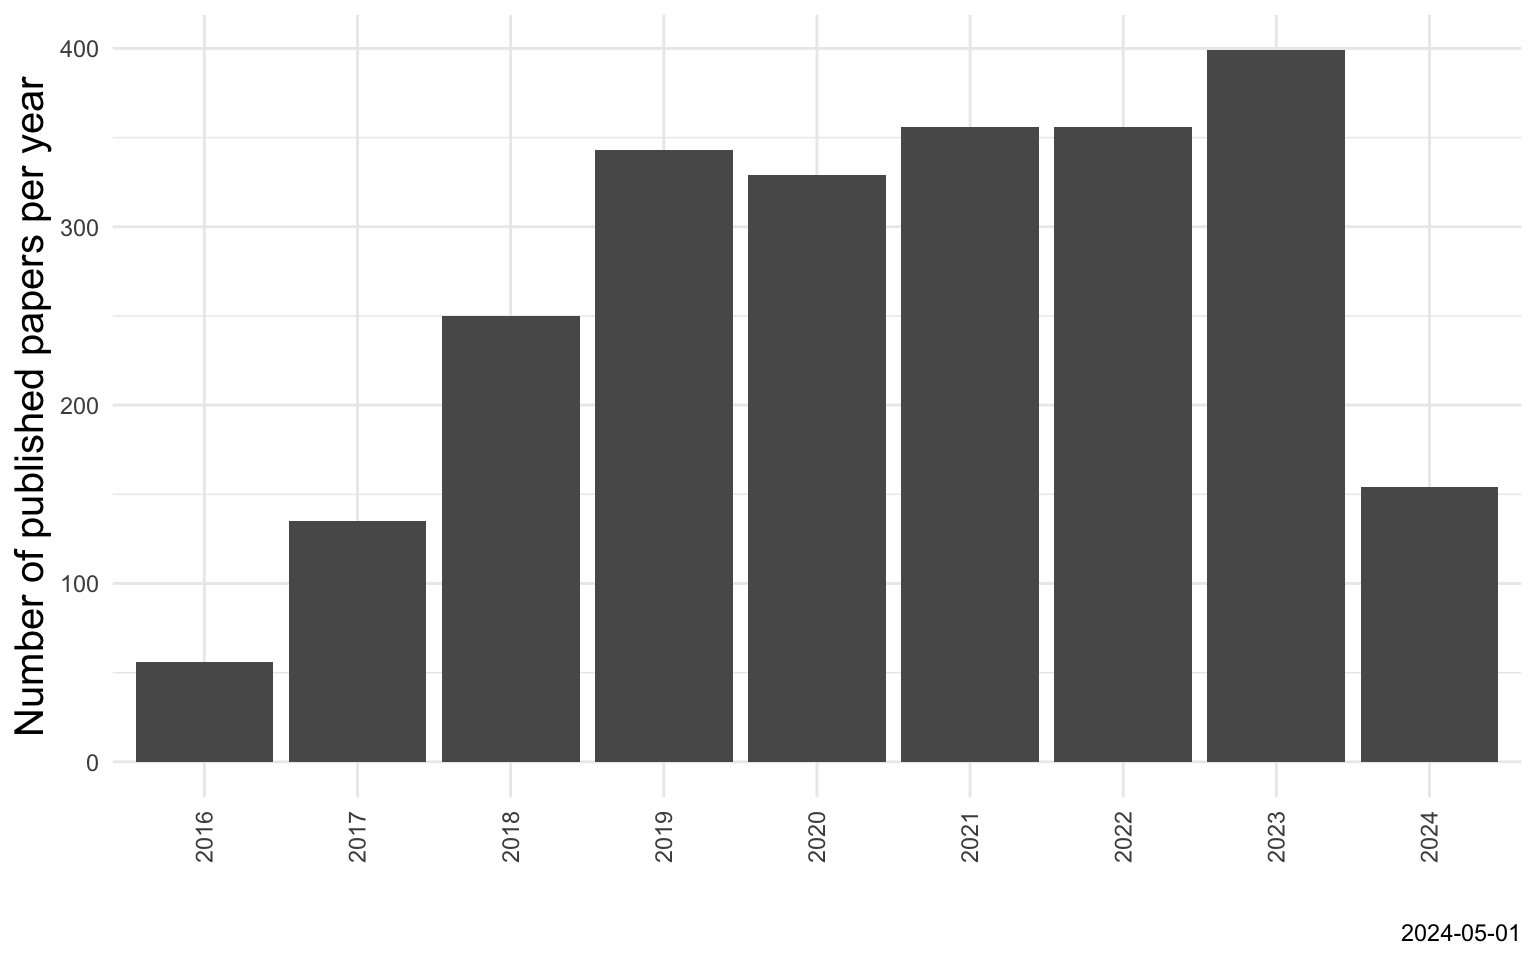
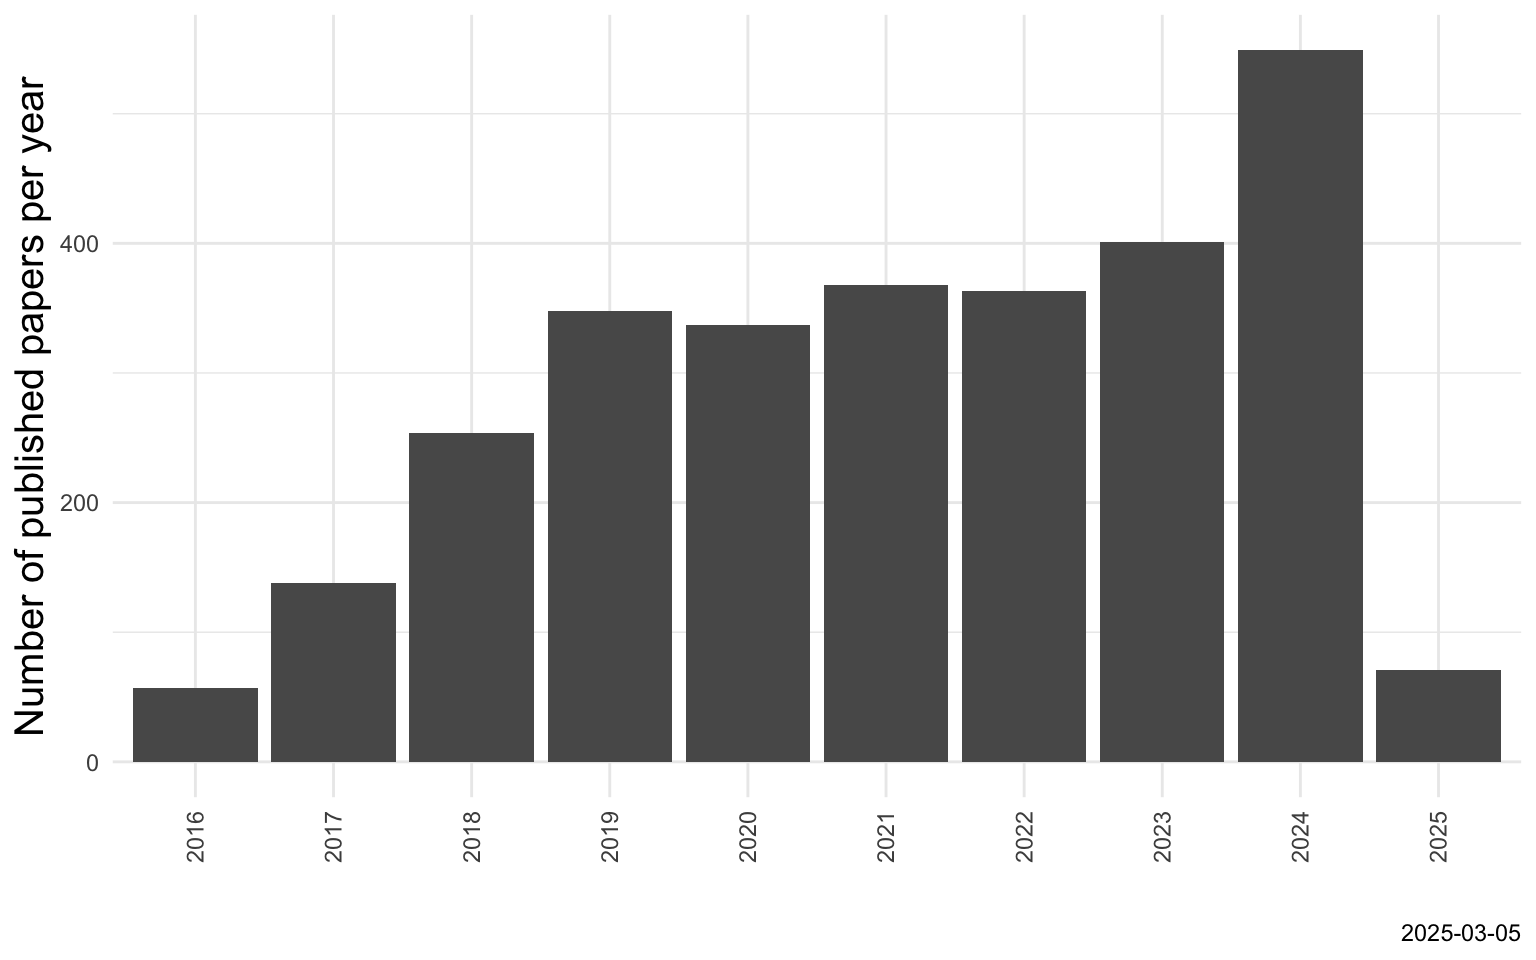
Update most cited papers, add JOSS paper, and update papers per year

diff --git a/joss-poster.tex b/joss-poster.tex
@@ -5,7 +5,7 @@
 \usepackage{ETbb}
 \usepackage[fontsize=28pt]{fontsize}
 % \usepackage{microtype}  % conflicts with hyperref and tikzposter, see https://tex.stackexchange.com/questions/481636/incompatibility-between-tikzposter-class-microtype-and-hyperref-package
-\usepackage{hyperref}
+\usepackage[hidelinks]{hyperref}
 \usepackage{qrcode}
 
 % \title{The Journal of Open Source Software}
@@ -46,25 +46,26 @@
   software itself
   \href{https://joss.readthedocs.io/en/latest/review_checklist.html}{meets
     some modern standards}, including having documentation, tests
-  (preferably automated), and community guidelines.  This way, JOSS
-  aims to give software creators a citable artefact
-  through which their research contribution can be recognised,
-  and to encourage them to use good software practice.}
+  (preferably automated), and community guidelines. This way, JOSS
+  aims to give software creators a citable artifact
+  through which their research contribution can be recognized,
+  and to encourage them to use good software practice.\\\newline
+  Latest paper: \footnotesize Diehl, Patrick, et al.\ "The Journal of Open Source Software (JOSS): Bringing Open-Source Software Practices to the Scholarly Publishing Community for Authors, Reviewers, Editors, and Publishers." Journal of Librarianship and Scholarly Communication 12.2 (2025). }
 
 \block{Publication statistics}{
   \begin{center}
-    \includegraphics[width=0.43\textwidth]{joss-papers-per-year.png}
+    \includegraphics[width=0.35\textwidth]{joss-papers-per-year.png}
   \end{center}
   \begin{center}
     \emph{Most-cited articles}:
   \begin{tabular}{p{0.62\linewidth}@{\quad}cc}
     \textbf{Title} & \textbf{Date} & \textbf{Citations} \\
-    \href{https://dx.doi.org/10.21105/joss.01686}{Welcome to the Tidyverse} & 2019-11-21 & 9\,431 \\
+    \href{https://dx.doi.org/10.21105/joss.01686}{Welcome to the Tidyverse} & 2019-11-21 & 14\,147 \\
     \href{https://dx.doi.org/10.21105/joss.00861}{UMAP: Uniform Manifold Approximation and Projection}
-    & 2018-09-02 & 4\,858 \\
-    \href{https://dx.doi.org/10.21105/joss.03021}{seaborn: statistical data visualization} & 2021-04-06 & 2\,652 \\
-    \href{https://dx.doi.org/10.21105/joss.03139}{performance: An R Package for Assessment, Comparison and Testing of Statistical Models} & 2021-04-21 & 1\,574 \\
-    \href{https://dx.doi.org/10.21105/joss.00024}{corner.py: Scatterplot matrices in Python} & 2016-06-08 & 1\,313 \\
+    & 2018-09-02 & 6\,701 \\
+    \href{https://dx.doi.org/10.21105/joss.03021}{seaborn: statistical data visualization} & 2021-04-06 & 4\,414 \\
+    \href{https://dx.doi.org/10.21105/joss.03139}{performance: An R Package for Assessment, Comparison and Testing of Statistical Models} & 2021-04-21 & 2\,743 \\
+    \href{https://doi.org/10.21105/joss.00772}{ggeffects: Tidy Data Frames of Marginal Effects from Regression Models} & 2018-06-29 & 1\,762 \\
   \end{tabular}
   \end{center}
 }
@@ -111,7 +112,8 @@ than providing a few monolithic reviews, several weeks apart.}
 %   \end{center}}
 %   \subcolumn{0.55}
   \block{About this poster}{
-Presented by Patrick Diehl and Daniel S. Katz at the \emph{2nd Annual Conference of the US Research Software Engineering Association} in Albuquerque, NM, 15--17 Oct 2024. Publication workflow diagram by Kyle Niemeyer (10.5281/zenodo.4538853). \\
+Presented by Patrick Diehl and Daniel S. Katz at the \emph{3nd Annual Conference of the US Research Software Engineering Association} in Philadelphia, PA, 6--8 Oct 2025. Publication workflow diagram by Kyle Niemeyer (10.5281/zenodo.4538853). \\
+%LA-UR-24-28030\\
 
 \begin{wrapfigure}[5]{r}{10cm}\vskip-1em\includegraphics[width=\linewidth]{by.png}\end{wrapfigure}
 Licensed under a Creative Commons Attribution 4.0 \\
